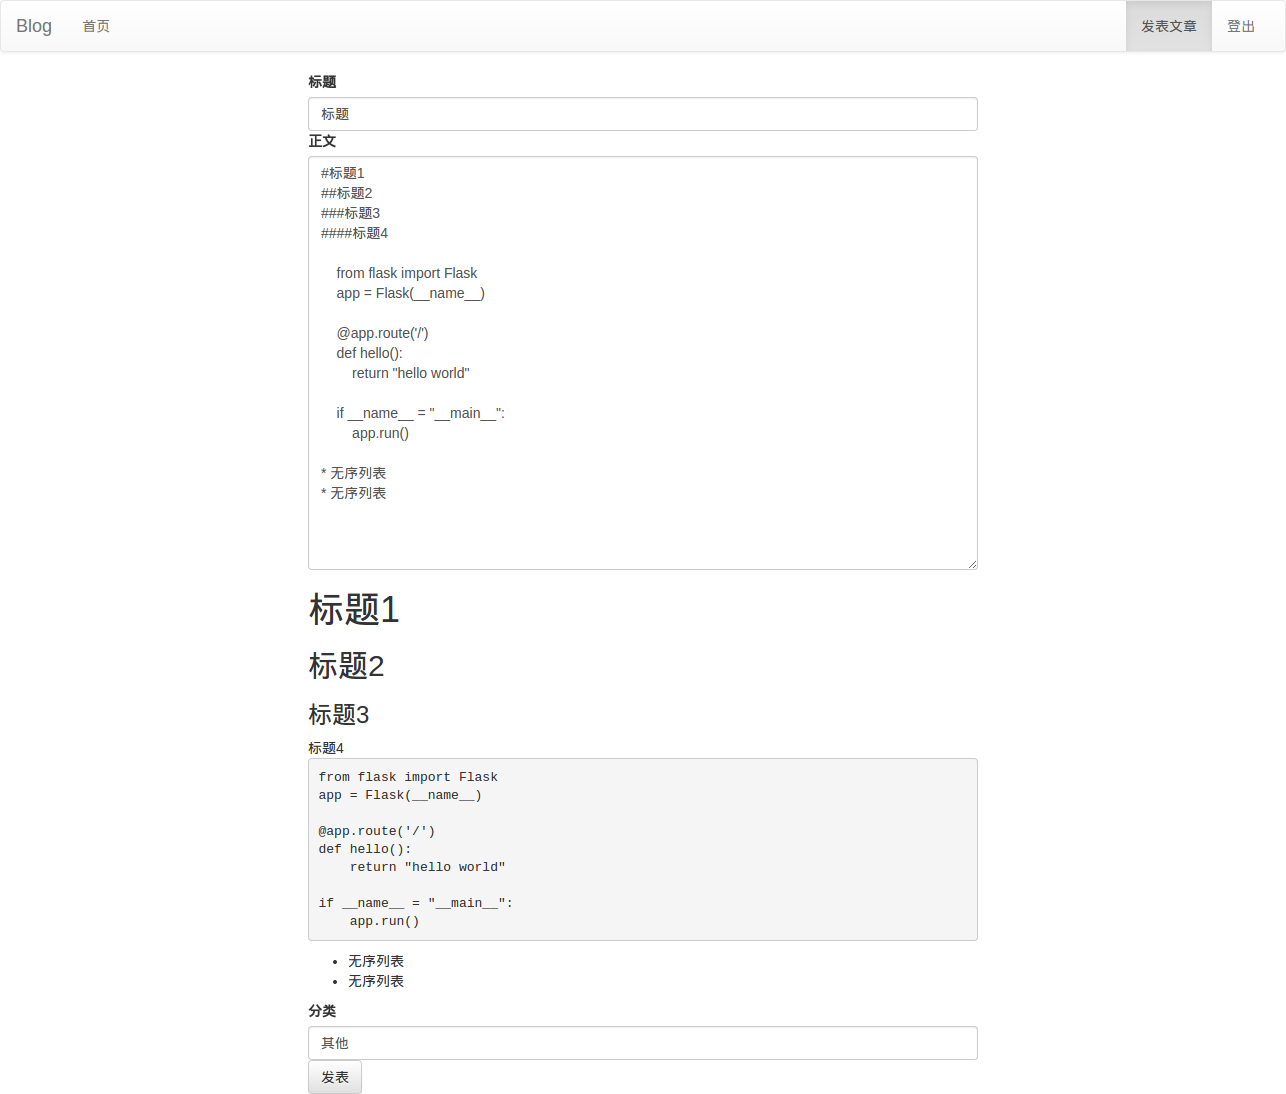
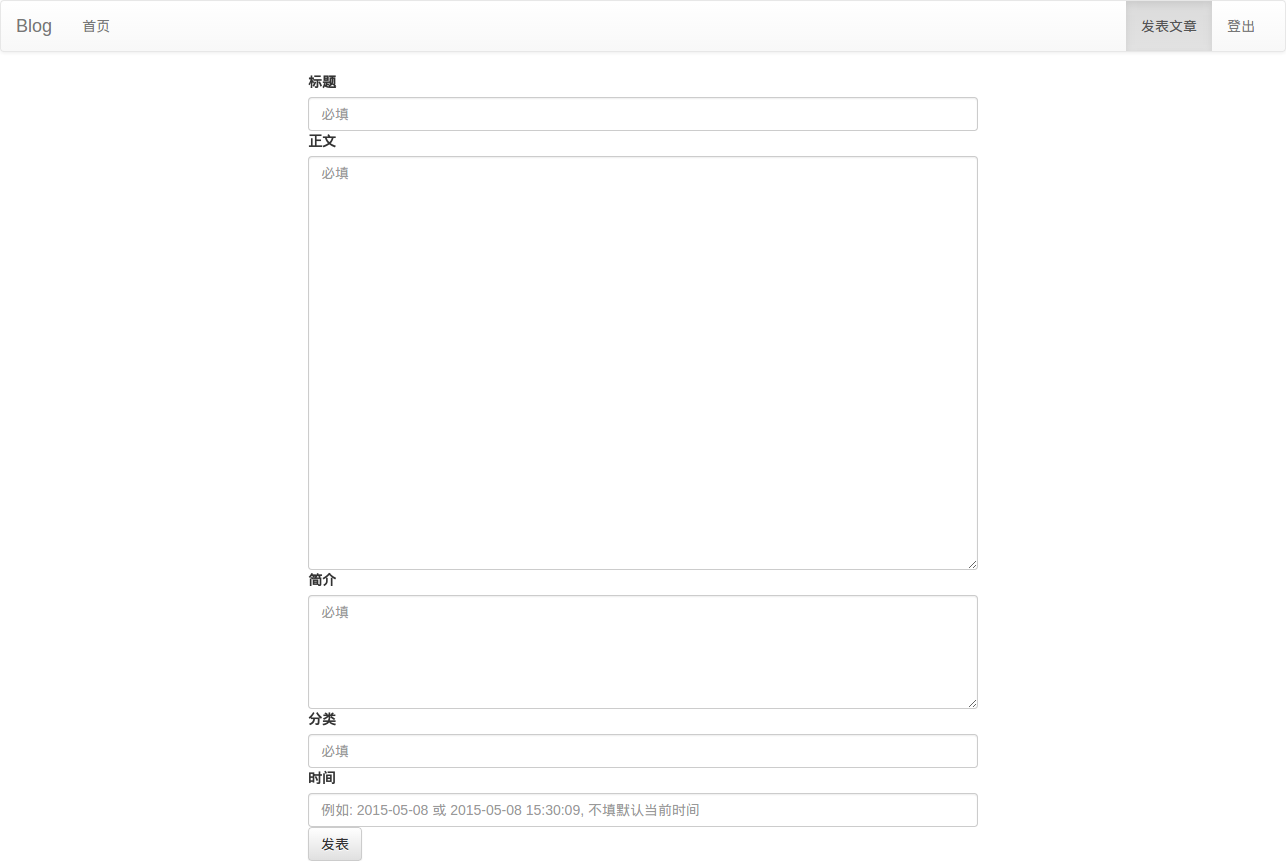
update readme,add placeholder in post-article.html

diff --git a/templates/post-article.html b/templates/post-article.html
@@ -43,13 +43,13 @@
         <form method="post">
             {{ form.hidden_tag() }}
             {{ form.title.label }}
-            {{ form.title(class='form-control') }}
+            {{ form.title(class='form-control', placeholder='必填') }}
             {{ form.body.label }}
-            {{ form.body(rows=20,cols=80, class='form-control')}}
+            {{ form.body(rows=20,cols=80, class='form-control', placeholder='必填')}}
             {{ form.abstract.label }}
-            {{ form.abstract(rows=5,cols=80,class='form-control')}}
+            {{ form.abstract(rows=5,cols=80,class='form-control', placeholder='必填')}}
             {{ form.category.label }}
-            {{ form.category(class='form-control') }}
+            {{ form.category(class='form-control', placeholder='必填') }}
             {{ form.pub_time.label }}
             {{ form.pub_time(class='form-control', placeholder='例如: 2015-05-08 或 2015-05-08 15:30:09, 不填默认当前时间') }}
             {{ form.submit(class='btn btn-default') }}

diff --git a/README.md b/README.md
@@ -8,38 +8,38 @@
 安装pip,和virtualenv
 
 ```
-sudo apt-get install python-pip
-sudo apt-get install virtualenv
+$ sudo apt-get install python-pip
+$ sudo apt-get install virtualenv
 ```
 
 从仓库中clone程序
 
 ```
-git clone https://github.com:gaotongfei/flask-blog.git
+$ git clone https://github.com:gaotongfei/flask-blog.git
 ```
 
 进入目录
 
 ```
-cd flask-blog
+$ cd flask-blog
 ```
 
 创建python虚拟环境
 
 ```
-virtualenv venv
+$ virtualenv venv
 ```
 
 启动虚拟环境
 
 ```
-source venv/bin/activate
+$ source venv/bin/activate
 ```
 
 安装依赖
 
 ```
-pip install -r requirements.txt
+(venv) pip install -r requirements.txt
 ```
 数据库:mysql
 
@@ -59,13 +59,13 @@ create database blog;
 添加管理员账号
 
 ```
-python app.py shell
+(venv) python app.py shell
 ```
 
 ```
 >>>from app import db, User
 >>>Admin = User(email=’name@example.com’,username=’name’,password=’your-password’)
- 把email,username,password换成你的.
+# 把email,username,password换成你的.
 >>>db.session.add(Admin)
 >>>db.session.commit()
 ```
@@ -75,7 +75,7 @@ python app.py shell
 运行程序
 
 ```
-python app.py runserver
+(venv) python app.py runserver
 ```
 
 默认是在`http://127.0.0.1:5000/`打开.
@@ -97,4 +97,6 @@ python app.py runserver
 
 ![3](/screen_shot/3.png)
 
+---
 
+![4](/screen_shot/4.png)
